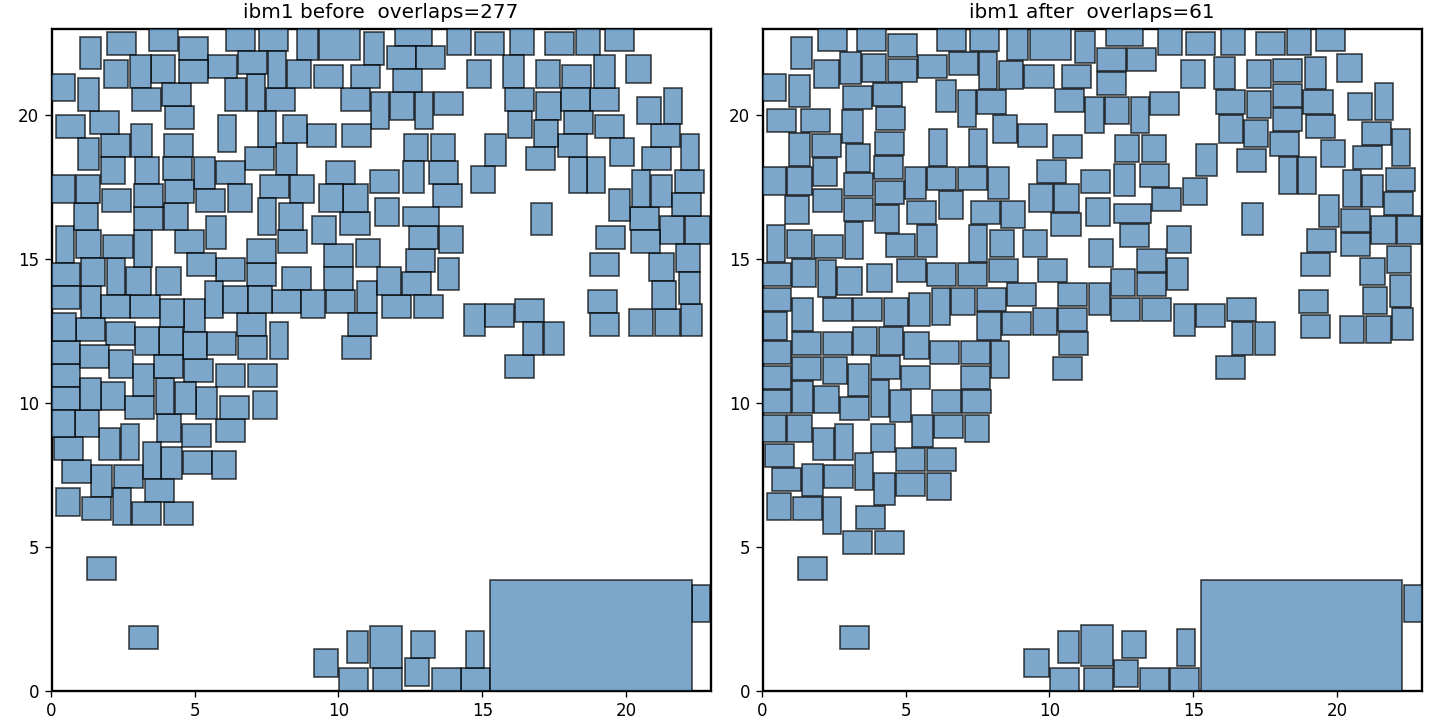
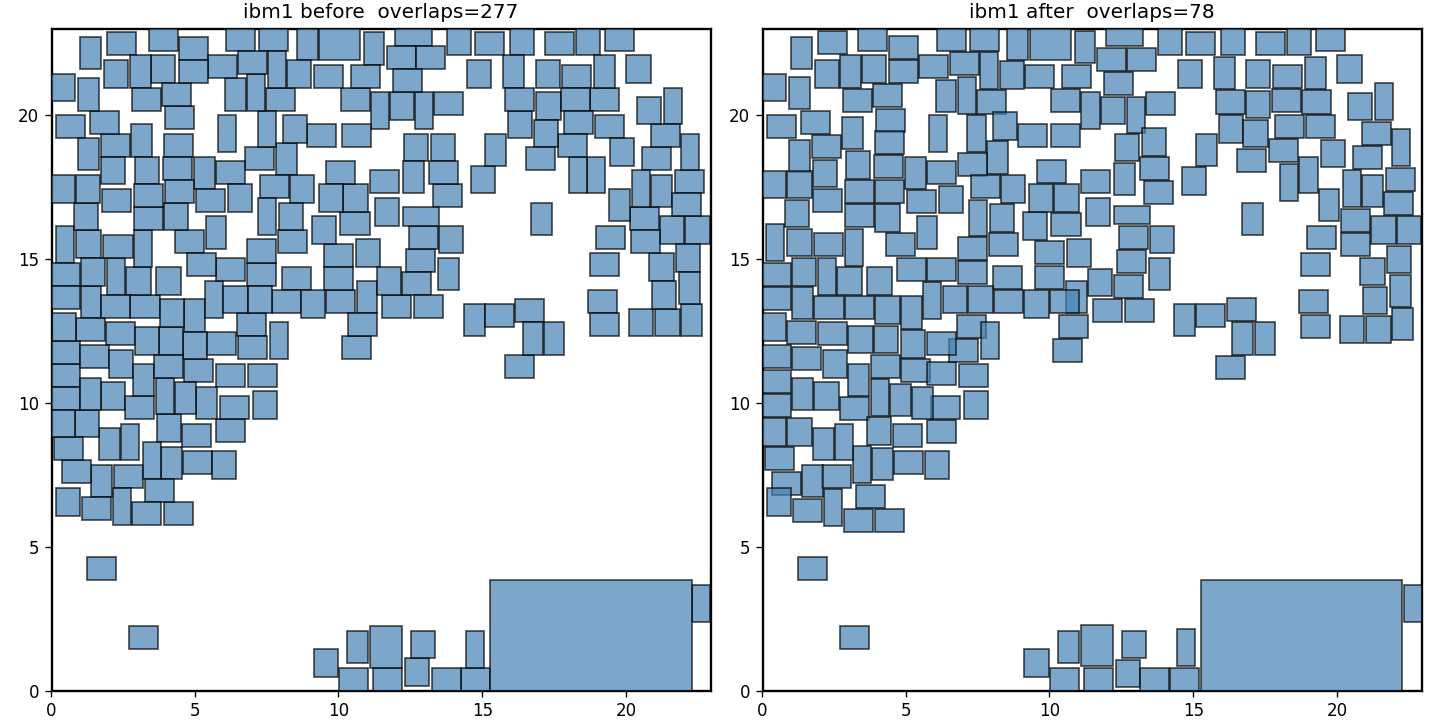
vectorized graph build

diff --git a/submissions/pritraj1/_legalize.py b/submissions/pritraj1/_legalize.py
@@ -22,26 +22,52 @@ def _build_graph(
     """
     n = pos.shape[0]
     half = sizes / 2.0
+
+    # Upper triangle to avoid duplicate pairs
+    i_indices, j_indices = np.triu_indices(n, k=1)
+    dx = pos[j_indices, 0] - pos[i_indices, 0]
+    dy = pos[j_indices, 1] - pos[i_indices, 1]
+
+    sep_x = half[i_indices, 0] + half[j_indices, 0] + gap
+    sep_y = half[i_indices, 1] + half[j_indices, 1] + gap
+
+    abs_dx = np.abs(dx)
+    abs_dy = np.abs(dy)
+
+    # Overlap condition
+    overlapping = (abs_dx < sep_x) & (abs_dy < sep_y)
+
     h_edges: List[Tuple[int, int, float]] = []
     v_edges: List[Tuple[int, int, float]] = []
 
-    for i in range(n):
-        for j in range(i + 1, n):
-            dx = pos[j, 0] - pos[i, 0]
-            dy = pos[j, 1] - pos[i, 1]
-            sep_x = half[i, 0] + half[j, 0] + gap
-            sep_y = half[i, 1] + half[j, 1] + gap
+    if not np.any(overlapping):
+        return h_edges, v_edges
 
-            if abs(dx) >= abs(dy):  # Prefer axis with clearer separation
-                if dx >= 0:
-                    h_edges.append((i, j, sep_x))  # i left of j
-                else:
-                    h_edges.append((j, i, sep_x))  # j left of i
+    # Filter overlapping pairs only
+    i_overlap = i_indices[overlapping]
+    j_overlap = j_indices[overlapping]
+    dx_overlap = dx[overlapping]
+    dy_overlap = dy[overlapping]
+    sep_x_overlap = sep_x[overlapping]
+    sep_y_overlap = sep_y[overlapping]
+
+    # Add an edge if macros overlap on both axes
+    overlap_x = sep_x_overlap - abs_dx[overlapping]
+    overlap_y = sep_y_overlap - abs_dy[overlapping]
+    use_x = overlap_x <= overlap_y  # prefer axis that needs less movement to resolve
+
+    for idx in range(len(i_overlap)):
+        i, j = i_overlap[idx], j_overlap[idx]
+        if use_x[idx]:
+            if dx_overlap[idx] >= 0:
+                h_edges.append((i, j, float(sep_x_overlap[idx])))  # i left of j
             else:
-                if dy >= 0:
-                    v_edges.append((i, j, sep_y))  # i below j
-                else:
-                    v_edges.append((j, i, sep_y))  # j below i
+                h_edges.append((j, i, float(sep_x_overlap[idx])))  # j left of i
+        else:
+            if dy_overlap[idx] >= 0:
+                v_edges.append((i, j, float(sep_y_overlap[idx])))  # i below j
+            else:
+                v_edges.append((j, i, float(sep_y_overlap[idx])))  # j below i
 
     return h_edges, v_edges
 
@@ -303,6 +329,7 @@ def legalize_graph(
 
     # Fallback
     if xs is None or ys is None:
+        print("[DEBUG]: sequential fallback called")
         return _sequential(pos, sizes, movable, canvas_width, canvas_height, gap)
 
     legal = pos.copy()

diff --git a/submissions/pritraj1/README.md b/submissions/pritraj1/README.md
@@ -11,6 +11,8 @@ Two parts to the problem:
 
 Approach: constraint graph + lp
 
+We map out the hard separation constraints to a pairwise graph and use existing linear programming packages to satisfy them while minimizing displacement to a target.
+
 ## 2. Relative placement in front of legalizer
 
 ## 3. Co-optimization
